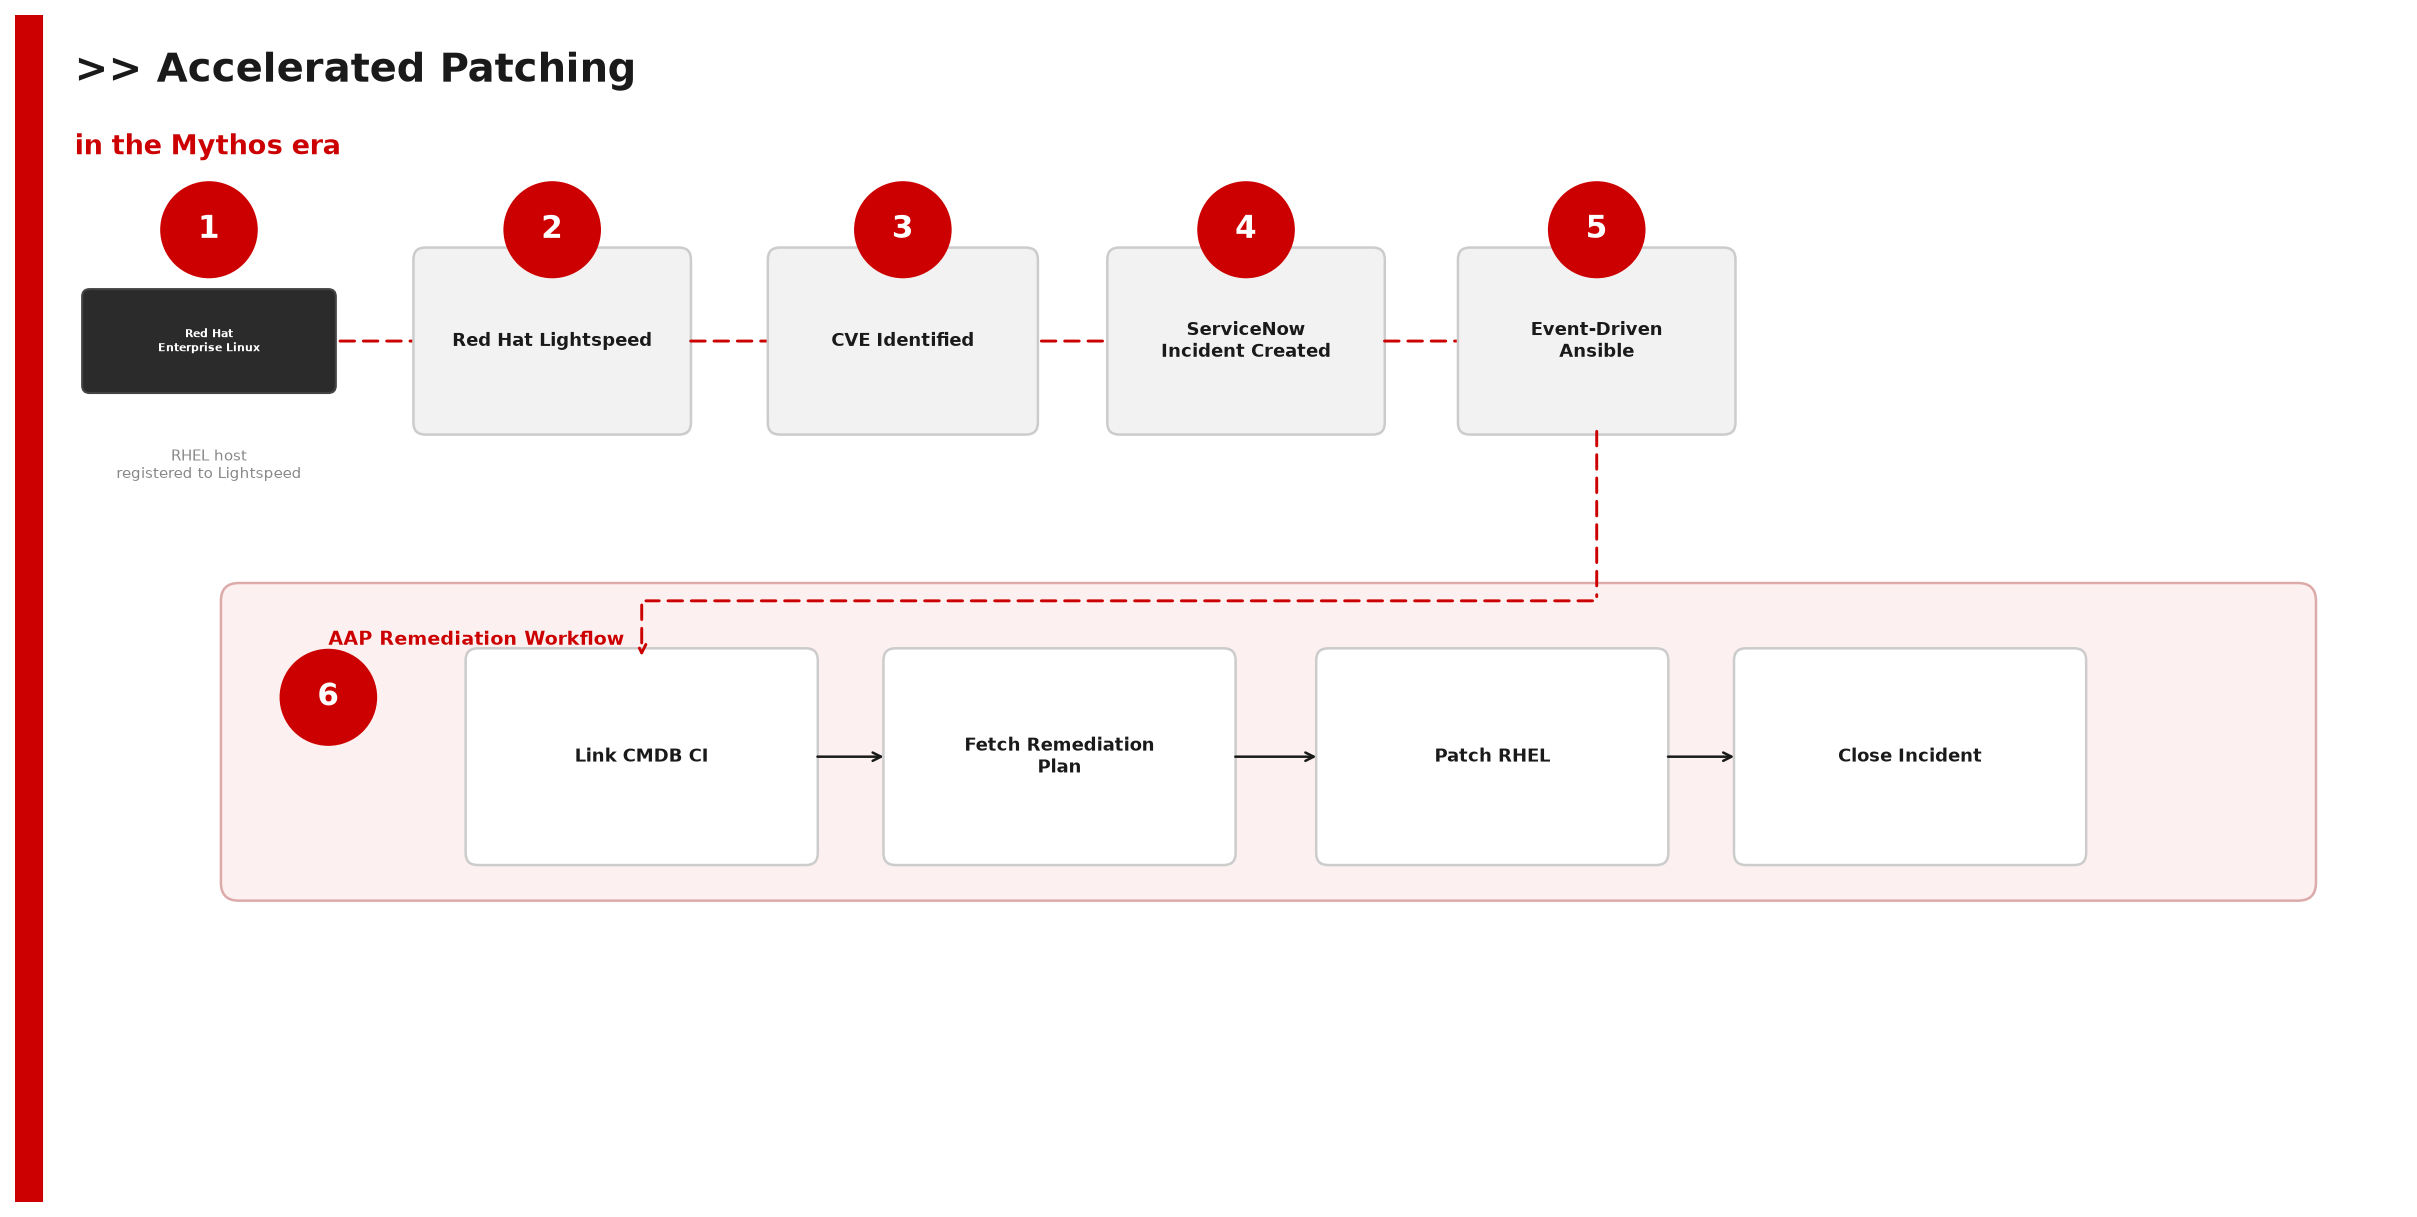
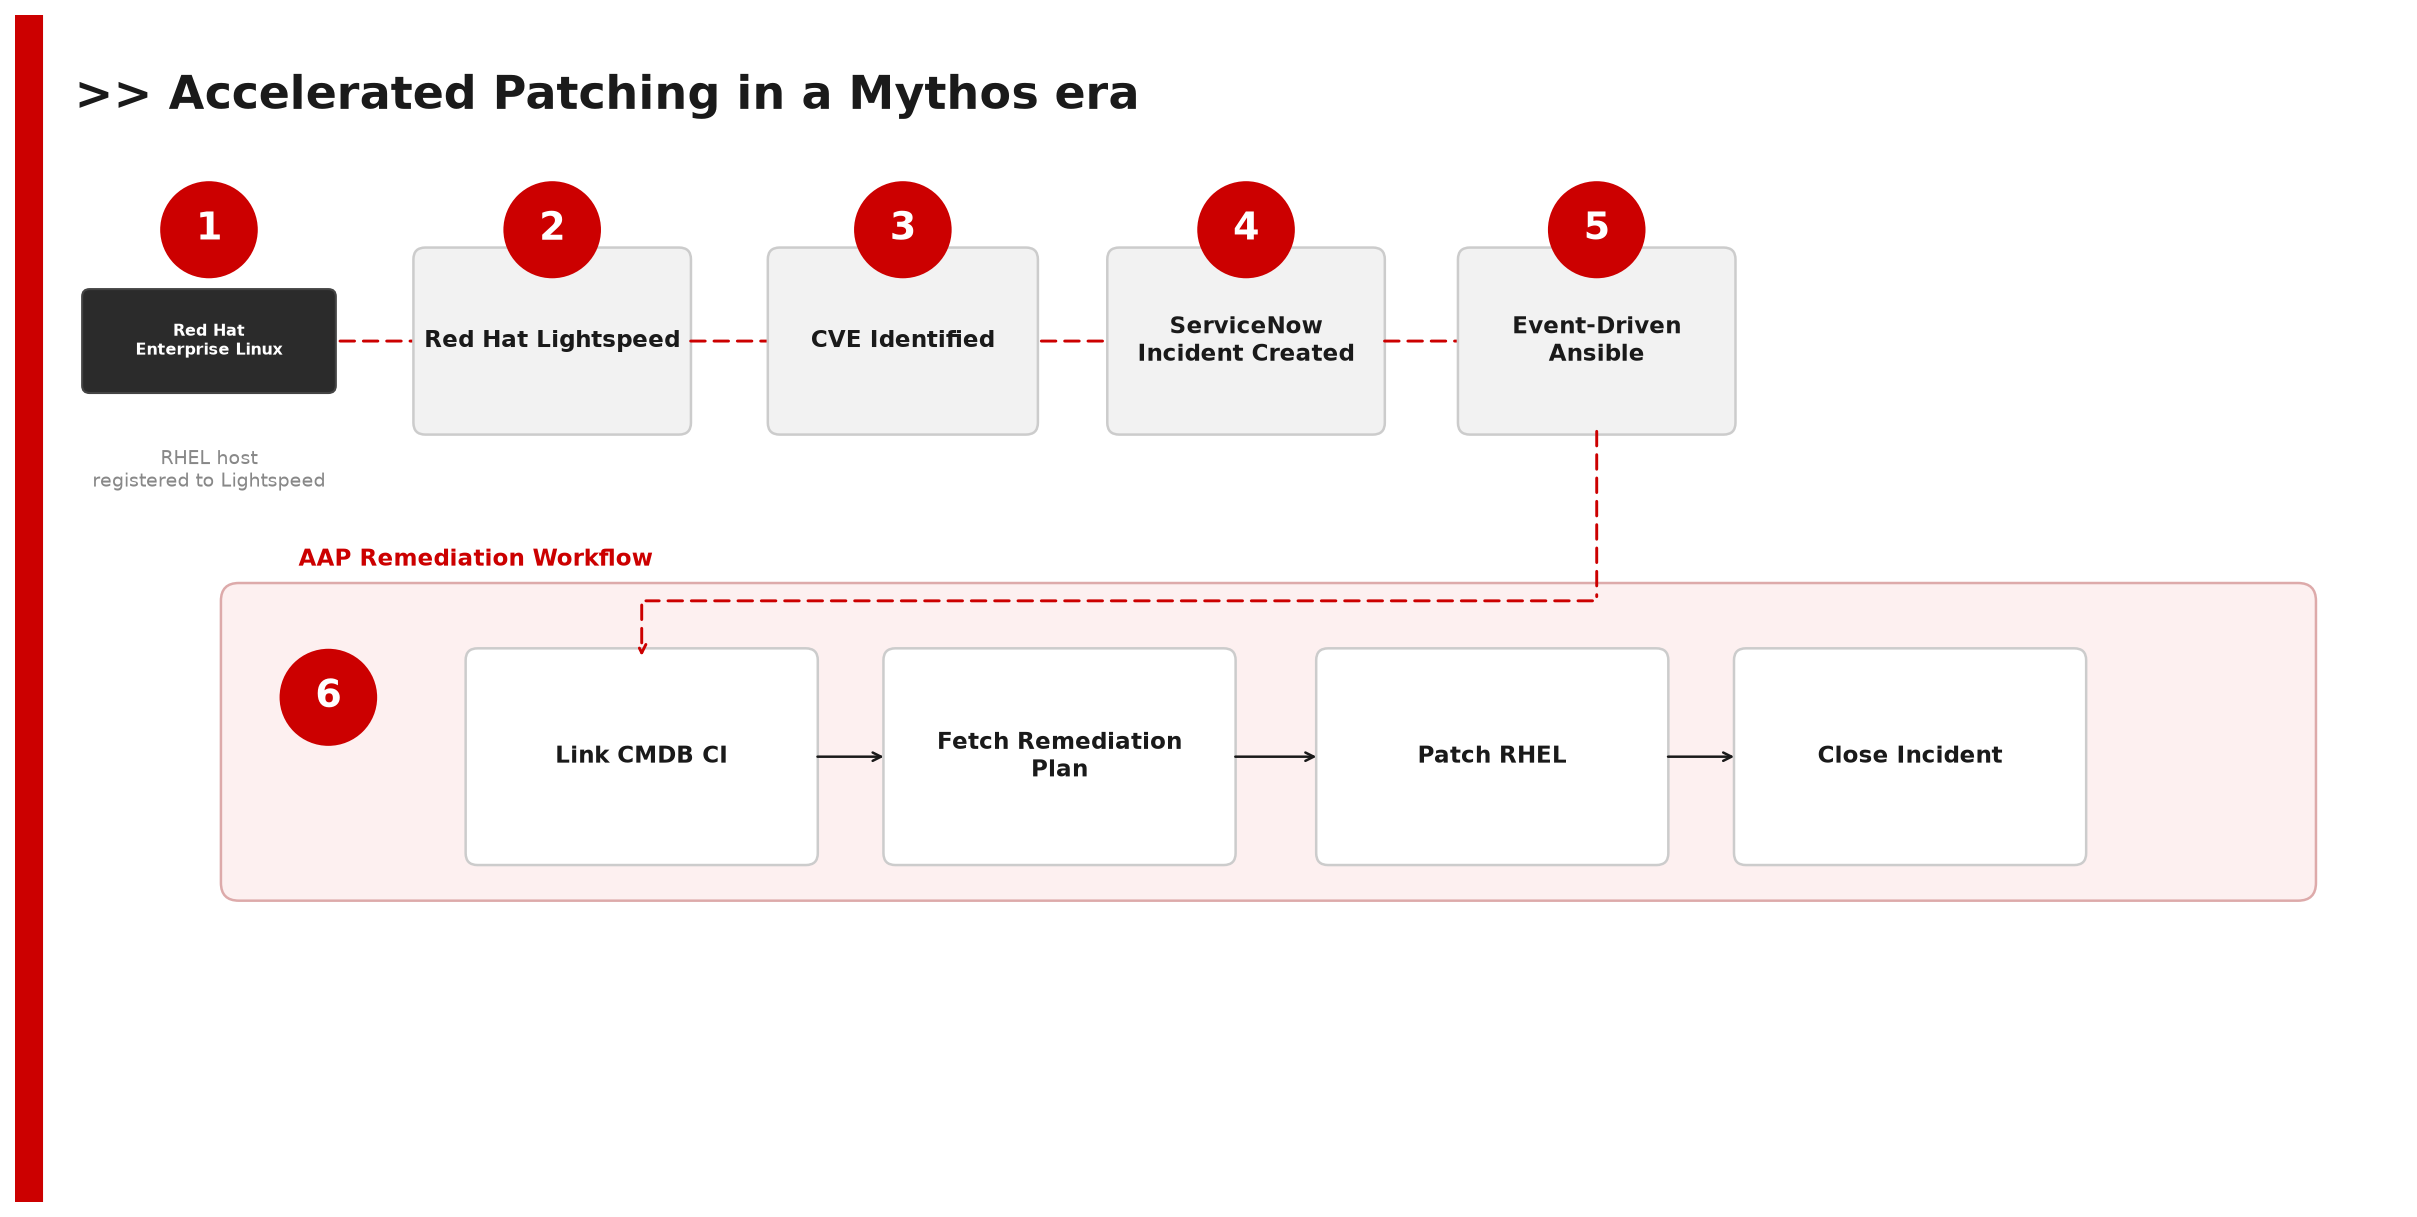
docs: improve diagram legibility — larger fonts, single-line title, label fix
Increases all label font sizes for readability in presentations, collapses
the two-line header into a single ">> Accelerated Patching in a Mythos era"
line, and moves the "AAP Remediation Workflow" label above the panel so it
no longer overlaps the dashed EDA→AAP connector.

diff --git a/CHANGELOG.md b/CHANGELOG.md
@@ -8,7 +8,9 @@ Format follows [Keep a Changelog](https://keepachangelog.com/en/1.1.0/).
 ### Changed (2026-06-16)
 
 - **Architecture diagram tweaks** — reduced RHEL host stack to a single host in
-  step 1; increased step-number font size inside red circles for legibility.
+  step 1; increased step-number font size inside red circles for legibility;
+  increased all label font sizes; consolidated title to a single line;
+  repositioned "AAP Remediation Workflow" label clear of the dashed connector.
 
 - **Rebranded "Red Hat Insights" → "Red Hat Lightspeed"** in the architecture
   diagram, README workflow steps, and MOTD banner (`playbooks/files/motd`).
